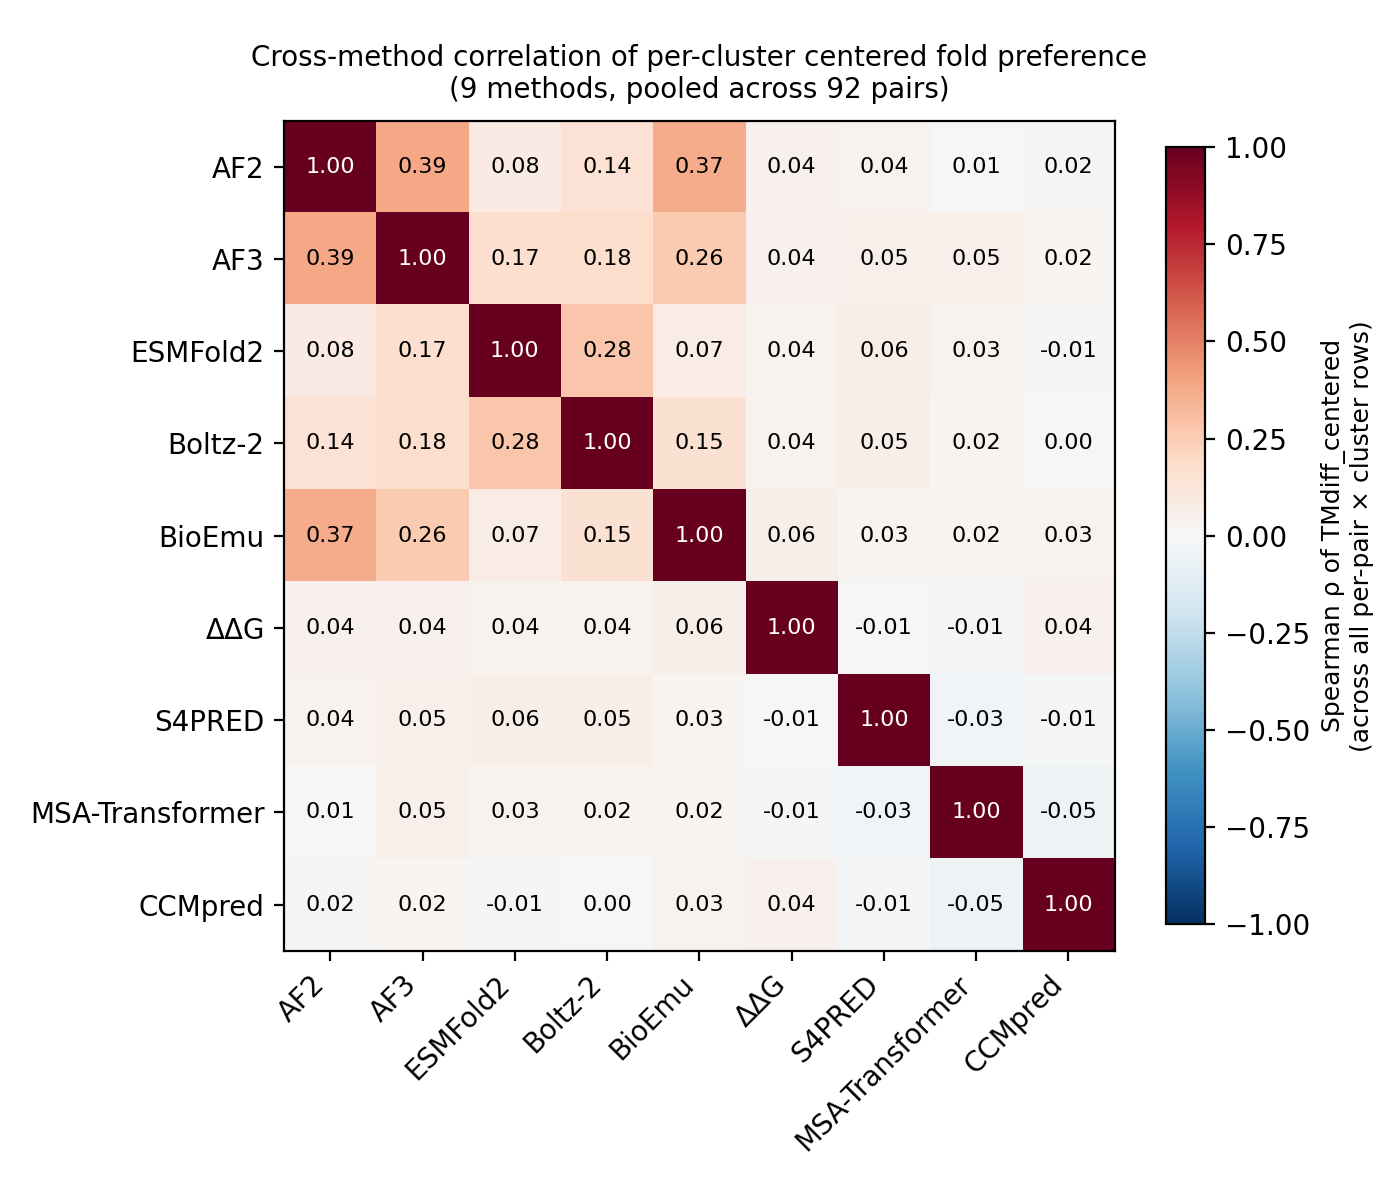
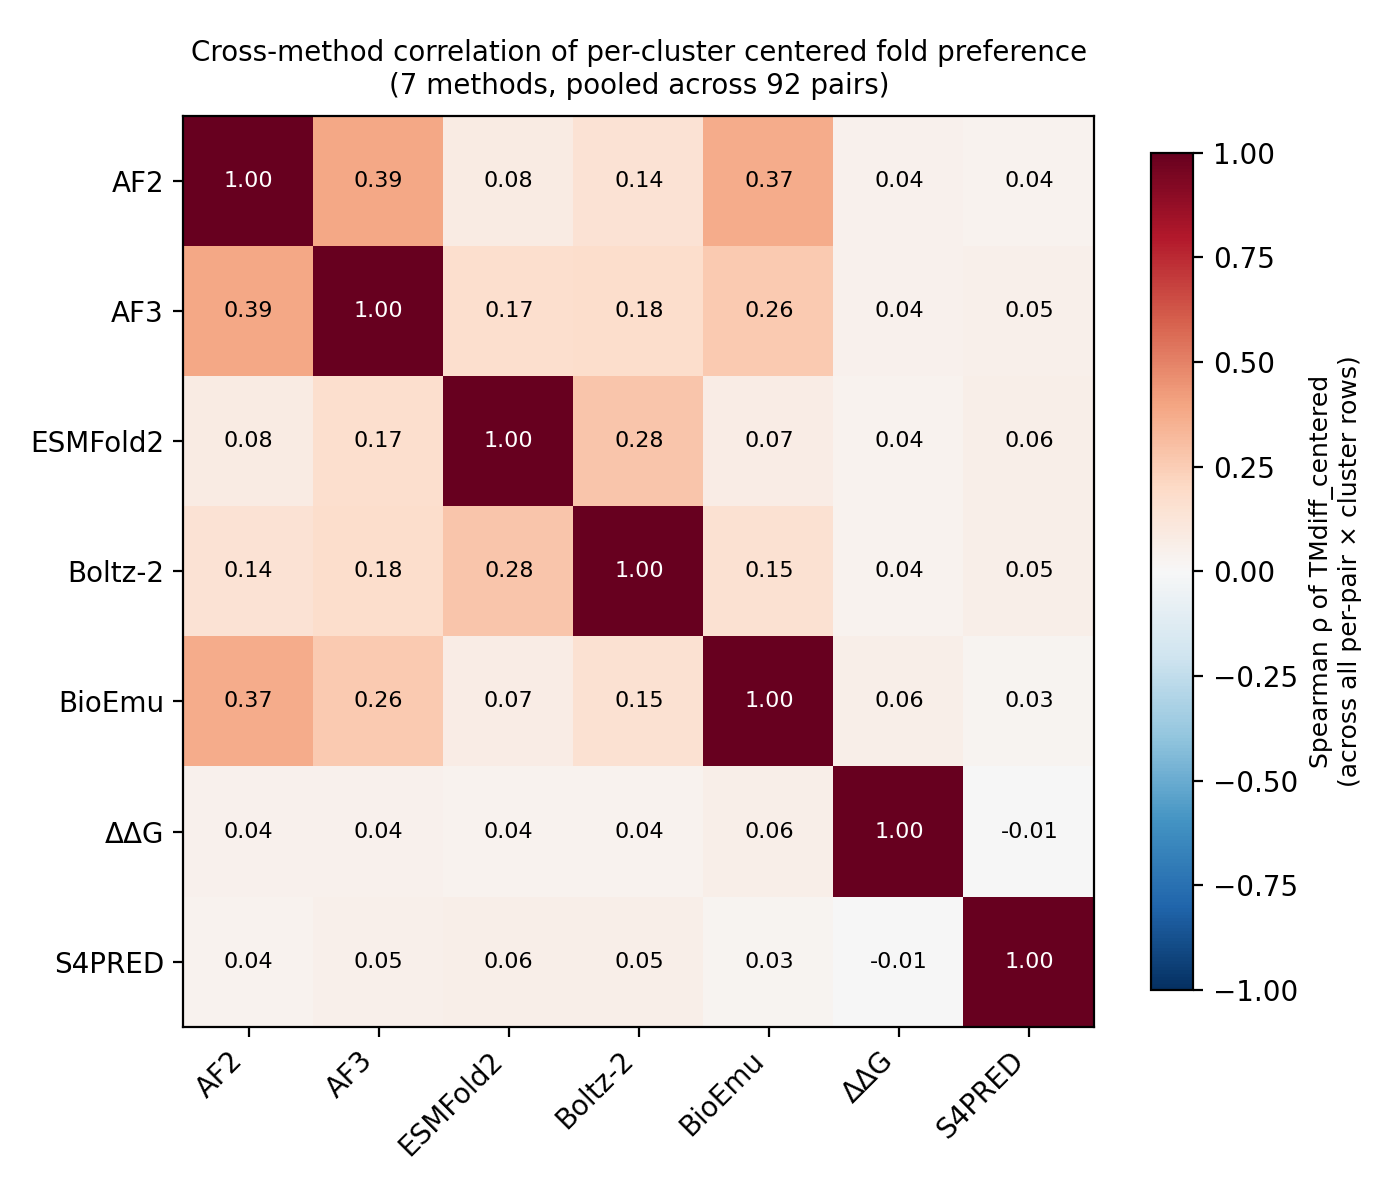
Figures: seven-method correlation matrix and legible tree panels
cross_method_correlation.py iterated METHOD_ORDER, which still holds the
two contact predictors, so the published matrix was 9x9 although its own
docstring said 7x7. Add ANALYSED_METHODS next to METHOD_ORDER and use it
here; the matrix is now 7x7 over 92 pairs, with AF2-AF3 at 0.39 the
strongest off-diagonal.

Tree panels: the scale bar sat under the heatmap's "Deep MSA" tick label
and the two collided; move it below the tree. A full RCSB molecule name
overran both the legend box and the colour-bar column, so shorten it to
the first chain description capped in length. The PDB marker label ran
under the heatmap axes, so put it left of the marker.

diff --git a/utils/phytree_utils.py b/utils/phytree_utils.py
@@ -670,6 +670,23 @@ def add_figure_title(image_path, title, title_x_offset=None, title_y_offset=20,
     new_img.save(image_path)
 
 
+def _short_name(disp: str, max_len: int = 20) -> str:
+    """Shorten a protein display name for a legend or colour-bar title.
+
+    pair_display returns the full RCSB molecule description when there is no
+    short alias, e.g. "Copper resistance protein K / Putative uncharacterized
+    protein copK". Printed in full it overruns the legend box and the colour-bar
+    column. Keep the first of the two chain descriptions and cap its length.
+    """
+    if not disp:
+        return ""
+    s = str(disp).split(" / ")[0].strip()
+    if len(s) <= max_len:
+        return s
+    cut = s[:max_len].rsplit(" ", 1)[0]
+    return (cut if len(cut) >= max_len // 2 else s[:max_len]).rstrip(" ,;") + "…"
+
+
 def draw_tree_aligned(ax, ete_tree, leaf_order, leaf_colors=None,
                        leaf_labels=None, internal_node_states=None,
                        event_node_states=None, fold_labels=None,
@@ -841,9 +858,11 @@ def draw_tree_aligned(ax, ete_tree, leaf_order, leaf_colors=None,
                     xc = x_pos[node]; yc = y_pos[node.name]
                     ax.plot(xc, yc, marker="X", color="black", markersize=11,
                             markeredgecolor="white", markeredgewidth=1.0, zorder=8)
+                    # Label to the LEFT of the marker: the X sits at a tip, and
+                    # a right-hand label runs under the heatmap axes.
                     ax.annotate(f"PDB {lab}", (xc, yc),
-                                textcoords="offset points", xytext=(7, 0),
-                                ha="left", va="center", fontsize=6,
+                                textcoords="offset points", xytext=(-9, 0),
+                                ha="right", va="center", fontsize=6,
                                 fontweight="bold", zorder=8)
     except Exception as _e:
         print(f"[tree] PDB home-cluster X markers skipped ({_e})")
@@ -862,14 +881,16 @@ def draw_tree_aligned(ax, ete_tree, leaf_order, leaf_colors=None,
             bar = min([1, 2, 5, 10], key=lambda k: abs(k * mag - raw)) * mag
             x_hi = tree_depth
             x_lo = ((max(0.0, tree_depth - bar) / tree_depth) ** _GAMMA) * tree_depth
+            # Below the tree, not above: the heatmap's first y-tick label
+            # ("Deep MSA") reaches left into the top strip and collides there.
             tr = blended_transform_factory(ax.transData, ax.transAxes)
-            ax.plot([x_lo, x_hi], [1.012, 1.012], color="black", lw=1.6,
+            ax.plot([x_lo, x_hi], [-0.012, -0.012], color="black", lw=1.6,
                     solid_capstyle="butt", transform=tr, clip_on=False, zorder=9)
             pid = 100.0 * np.exp(-2.0 * tree_depth)
-            ax.text((x_lo + x_hi) / 2.0, 1.022,
+            ax.text((x_lo + x_hi) / 2.0, -0.022,
                     f"{bar:g} subs/site  ·  root→tip {tree_depth:.2f} "
                     f"(~{pid:.0f}% mean pairwise id)",
-                    transform=tr, ha="center", va="bottom", fontsize=5,
+                    transform=tr, ha="center", va="top", fontsize=7,
                     zorder=9, clip_on=False)
     except Exception as _e:
         print(f"[tree] scale bar skipped ({_e})")
@@ -927,7 +948,7 @@ def draw_tree_aligned(ax, ete_tree, leaf_order, leaf_colors=None,
         # Append the protein/common name, e.g. "2n54B (XCL1)".
         try:
             from utils.pair_labels import pair_display
-            _disp = pair_display(f"{f1lab}_{f2lab}") if fold_labels else ""
+            _disp = _short_name(pair_display(f"{f1lab}_{f2lab}")) if fold_labels else ""
             if _disp:
                 f1lab, f2lab = f"{f1lab} ({_disp})", f"{f2lab} ({_disp})"
         except Exception:
@@ -1202,8 +1223,10 @@ def compose_tree_and_heatmap(
             ax_top.set_xticks([]); ax_top.set_xticklabels([])
             if gi == 0:
                 ax_top.set_yticks([0])
+                # This tick label extends LEFT over the tree, so keep it modest
+                # even when the method labels are set large for a paper panel.
                 ax_top.set_yticklabels([extra_top_row_label],
-                                       fontsize=y_tick_fontsize)
+                                       fontsize=min(y_tick_fontsize, 11))
             else:
                 ax_top.set_yticks([])
             ax_top.axvline(-0.5, color="k", lw=0.5, alpha=0.25)
@@ -1274,10 +1297,12 @@ def compose_tree_and_heatmap(
                 try:
                     from utils.pair_labels import pair_display
                     if fold_labels and len(fold_labels) == 2:
-                        _disp = pair_display(f"{fold_labels[0]}_{fold_labels[1]}")
+                        _disp = _short_name(pair_display(
+                            f"{fold_labels[0]}_{fold_labels[1]}"), max_len=14)
                 except Exception:
                     _disp = ""
-                title = (f"{_disp}\nfold preference" if _disp else "Centered\npreference")
+                title = (f"{_disp}\nfold\npreference" if _disp
+                         else "Centered\npreference")
             else:
                 title = group_titles[gi] if (group_titles and gi < len(group_titles)) else ""
                 # Wrap long titles so they don't overflow the colorbar column.

diff --git a/scripts/cross_method_correlation.py b/scripts/cross_method_correlation.py
@@ -11,9 +11,11 @@ Why this exists
 The per-pair tree-heatmaps (utils/protein_plot_utils.py) show each method's
 per-cluster signal. Cross-pair, we want to know: which methods systematically
 agree (likely shared bias) and which are independent (orthogonal evidence).
-AF2 and AF3 are expected to track tightly (shared training-data bias); MSAT
-and CCMpred should be more orthogonal; ESM stands alone (single-sequence
-transformer); DDG is energy-based and likely orthogonal to the rest.
+AF2 and AF3 are expected to track tightly (shared training-data bias); ESM
+stands alone (single-sequence transformer); DDG is energy-based and S4PRED
+predicts secondary structure, so both are likely orthogonal to the rest.
+The two contact predictors are excluded: they are reported for reference and
+enter no analysis.
 
 This figure quantifies those expectations across all 93 pairs.
 """
@@ -30,7 +32,7 @@ import numpy as np
 import pandas as pd
 
 sys.path.insert(0, os.path.dirname(os.path.dirname(os.path.abspath(__file__))))
-from utils.method_labels import METHOD_ORDER, disp  # noqa: E402
+from utils.method_labels import ANALYSED_METHODS, disp  # noqa: E402
 
 DOCS = "docs"
 OUT = os.path.join(DOCS, "figs", "cross_method_correlation.png")
@@ -51,7 +53,8 @@ def pivot_wide(df: pd.DataFrame) -> pd.DataFrame:
         index=["pair_id", "cluster"], columns="method",
         values="TMdiff_centered", aggfunc="first",
     )
-    cols = [m for m in METHOD_ORDER if m in wide.columns]
+    # Analysed methods only: the contact predictors are reported, not analysed.
+    cols = [m for m in ANALYSED_METHODS if m in wide.columns]
     return wide[cols]
 
 

diff --git a/utils/method_labels.py b/utils/method_labels.py
@@ -16,6 +16,12 @@ Usage:
 # methods (MSA-Transformer, CCMpred) last.
 METHOD_ORDER = ["AF2", "AF3", "ESM", "Boltz2", "BioEmu", "DDG", "S4PRED", "MSAT", "CCMpred"]
 
+# The seven methods that enter the analysis. The two contact predictors are
+# reported for reference only: a single cluster's alignment is too shallow for
+# direct-coupling analysis, and CCMpred returns exactly zero on 71% of
+# clusters, so a cross-method figure that includes them shows mostly noise.
+ANALYSED_METHODS = ["AF2", "AF3", "ESM", "Boltz2", "BioEmu", "DDG", "S4PRED"]
+
 # KEY -> human display string. Unicode (Δ = U+0394) renders in both matplotlib
 # (DejaVu Sans) and HTML, so a single string serves every output target.
 METHOD_DISPLAY = {
